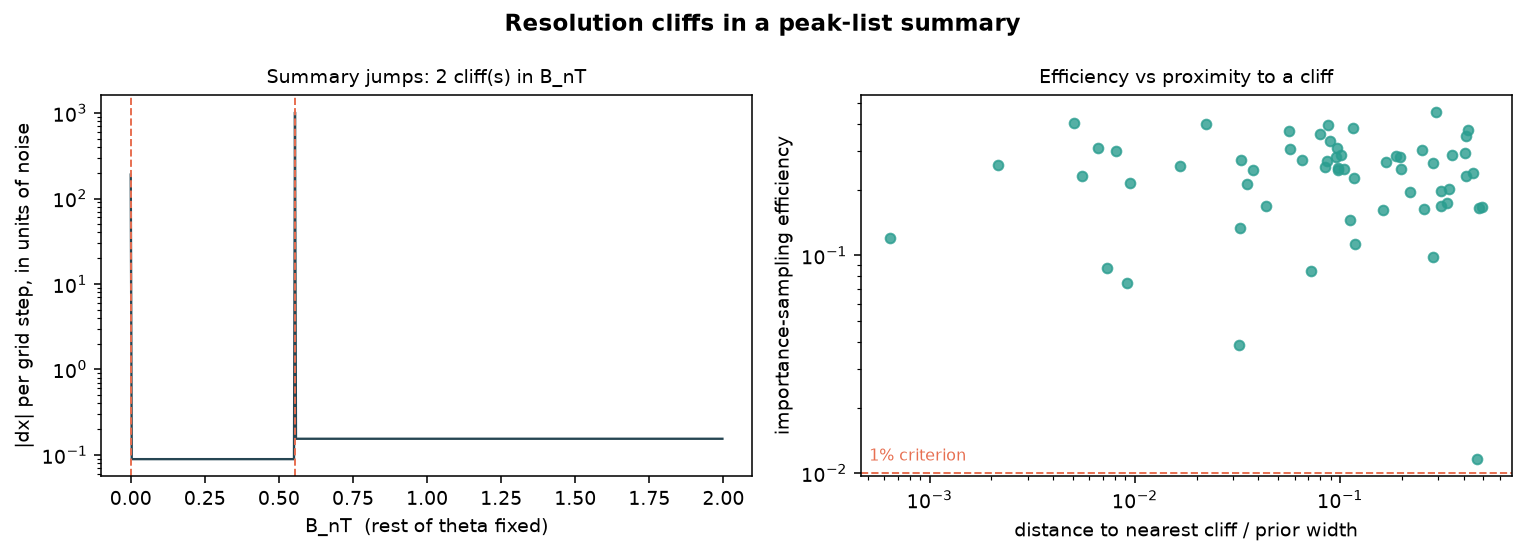
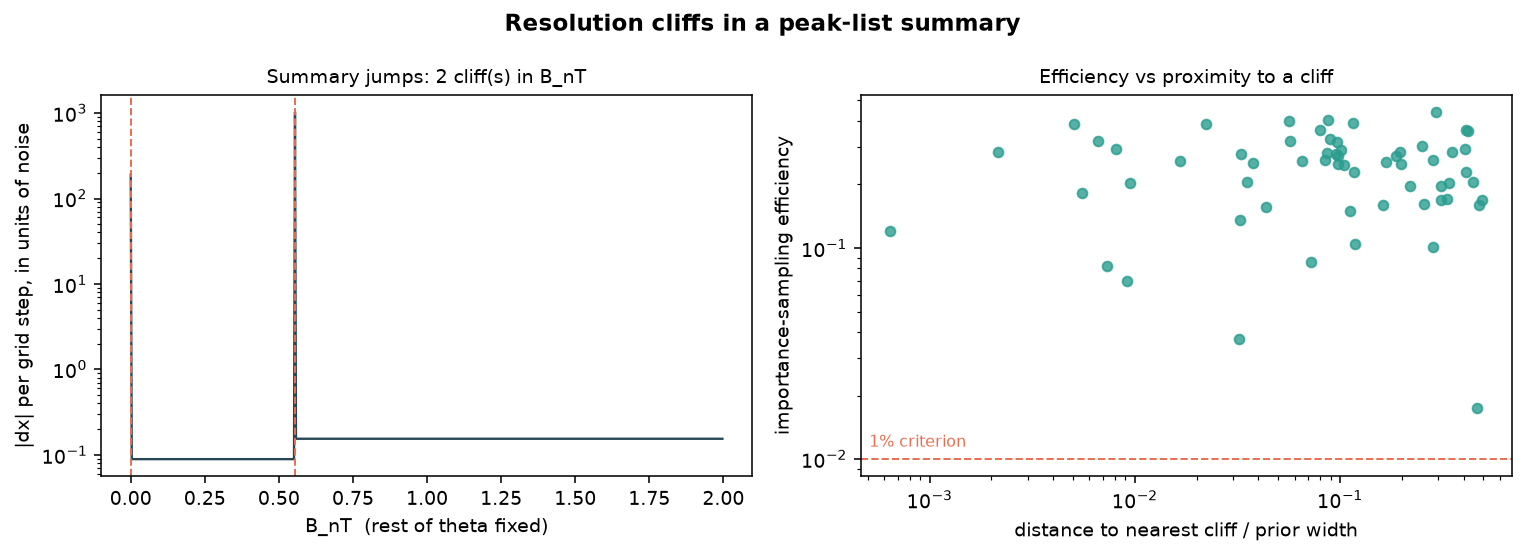
Find what actually drives the efficiency spread, with the caveat attached
Screening seven candidates against sampling efficiency over 60 observations,
the only one surviving a Bonferroni correction is the true J_CH itself
(rho = -0.38, p_adj = 0.019): efficiency degrades toward the top of the J
prior. Distance to the prior boundary is flat (rho = 0.18), so it is not an
edge effect, and distance to a cliff is flat (rho = -0.06), as already shown.

That points at the flow's own fit to its posterior rather than at the physics.
Suggestive at n = 60, not established, and the printout now says so along with
the Bonferroni-adjusted p-values -- screening seven quantities and quoting the
raw p of the winner would overstate it.

The module docstring asserted the cliff hypothesis as though it were true. It
now leads with the refutation, since a plausible-sounding explanation that
happens to be false is worse than an open question.

168 tests pass.

Claude-Session: https://claude.ai/code/session_013FEeCKFRj576ZweqBitzx4

diff --git a/resolution_cliffs.py b/resolution_cliffs.py
@@ -11,15 +11,20 @@ consequences the project has to state rather than discover later on real
 spectra:
 
 * a local optimizer cannot cross a jump, so the chi-square surface is carved
-  into basins that have nothing to do with the physics;
-* the importance weights near a jump are erratic, because the network's smooth
-  density is approximating something that is not smooth;
-* and so sampling efficiency -- the project's own failure criterion -- depends
-  on where the observation happens to sit relative to the nearest jump.
+  into basins that have nothing to do with the physics; and
+* the importance weights near a jump could be erratic, because the network's
+  smooth density is approximating something that is not smooth.
 
-The earlier efficiency sweep found a 40x spread across observations drawn from
-the same prior with the same network. This module tests whether proximity to a
-resolution cliff is the explanation.
+That second point was the hypothesis for the ~30x spread in sampling efficiency
+across observations drawn from the same prior with the same network. **It is
+wrong.** Spearman rho between distance-to-cliff and efficiency is -0.06
+(p = 0.64) over 60 observations. Recorded here rather than dropped, because the
+project's failure criterion is stated on efficiency and a plausible-sounding
+explanation that happens to be false is worse than an open question.
+
+What does correlate is the true J_CH itself (rho = -0.38), i.e. the flow fits
+its own posterior less well toward the top of the J prior. That is a property of
+the trained network, not of the physics.
 
 One class of cliff was an outright bug and is gone: the merge threshold used to
 be the model's own linewidth, so it moved with the fitted T2 and made the
@@ -191,26 +196,39 @@ def study(seed=0, n_obs=60, n_sims=150_000, n_post=4000):  # pragma: no cover
     print("-" * 84)
     print("  The failure criterion is stated on efficiency, so if cliffs are")
     print("  not the driver it is worth knowing what is.\n")
-    print(f"{'quantity':>28} {'Spearman rho':>13} {'p':>10}")
+    print(f"{'quantity':>28} {'Spearman rho':>13} {'p':>10} {'p (adj)':>10}")
     cands = [(n, truths[:, i]) for i, n in enumerate(prob.param_names)]
     # how close the truth sits to the edge of the prior box, in prior units
     u = (truths - prob.low) / prob.prior_span()
     cands.append(("distance to prior edge", np.min(np.minimum(u, 1 - u), axis=1)))
     cands.append(("distance to cliff", dists))
     cands.append(("reweighted width on J", widths))
-    best = []
+    rows, n_tested = [], 0
     for name, v in cands:
         ok = np.isfinite(v)
         if ok.sum() < 5 or np.ptp(v[ok]) == 0:
             continue
         rho, p = stats.spearmanr(v[ok], effs[ok])
-        flag = " <--" if p < 0.01 else ""
-        print(f"{name:>28} {rho:>13.3f} {p:>10.3g}{flag}")
-        if p < 0.01:
-            best.append((name, rho))
+        rows.append((name, rho, p))
+        n_tested += 1
+    best = []
+    for name, rho, p in rows:
+        # Several candidates are being screened at once, so the raw p-value
+        # overstates the evidence; Bonferroni is the conservative correction.
+        p_adj = min(1.0, p * n_tested)
+        flag = " <--" if p_adj < 0.05 else ""
+        print(f"{name:>28} {rho:>13.3f} {p:>10.3g} {p_adj:>10.3g}{flag}")
+        if p_adj < 0.05:
+            best.append((name, rho, p_adj))
     if best:
-        print("\n  Significant at p < 0.01: "
-              + ", ".join(f"{n} ({r:+.2f})" for n, r in best))
+        print(f"\n  Surviving a Bonferroni correction over {n_tested} candidates: "
+              + ", ".join(f"{n} ({r:+.2f}, p_adj = {pa:.3f})"
+                          for n, r, pa in best))
+        print("  This is where the flow fits the posterior least well, not a")
+        print("  property of the physics -- distance to the prior boundary and")
+        print("  distance to a cliff both come back flat. Suggestive at n = 60,")
+        print("  not established; the practical consequence either way is that")
+        print("  the efficiency criterion should be read over several spectra.")
     else:
         print("\n  Nothing here predicts it. The spread is a property of the")
         print("  trained flow's local fit to the posterior, not of the physics,")

diff --git a/README.md b/README.md
@@ -270,12 +270,17 @@ failure criterion, which is stated as a single number: the same network on the
 same model reads 1.6% on one spectrum and 45% on another. Quoting it over several
 spectra, or with its spread, would be more robust than a single reading.
 
-*What drives the spread is not settled.* The obvious candidate — proximity to a
-resolution cliff, where the peak count changes and the network's smooth density
-is approximating something that is not smooth — is **refuted**: Spearman
-ρ = −0.06 (p = 0.64) over 60 observations. `resolution_cliffs.py` regresses
-efficiency against every parameter and against distance to the prior boundary
-as well, so the driver is looked for rather than assumed.
+*What drives the spread.* The obvious candidate — proximity to a resolution
+cliff, where the peak count changes and the network's smooth density is
+approximating something that is not smooth — is **refuted**: Spearman ρ = −0.06
+(p = 0.68) over 60 observations. Screening seven candidates, the only one to
+survive a Bonferroni correction is the true J_CH itself (ρ = −0.38,
+p_adj = 0.019): efficiency degrades toward the top of the J prior. Distance to
+the prior boundary is flat (ρ = 0.18), so it is not an edge effect either.
+
+That points at the flow's own fit to the posterior rather than at the physics.
+Suggestive at n = 60, not established — but the practical consequence is the
+same either way: **read the efficiency criterion over several spectra, not one.**
 
 **Against nested sampling on the exact likelihood**, on the same observation:
 
